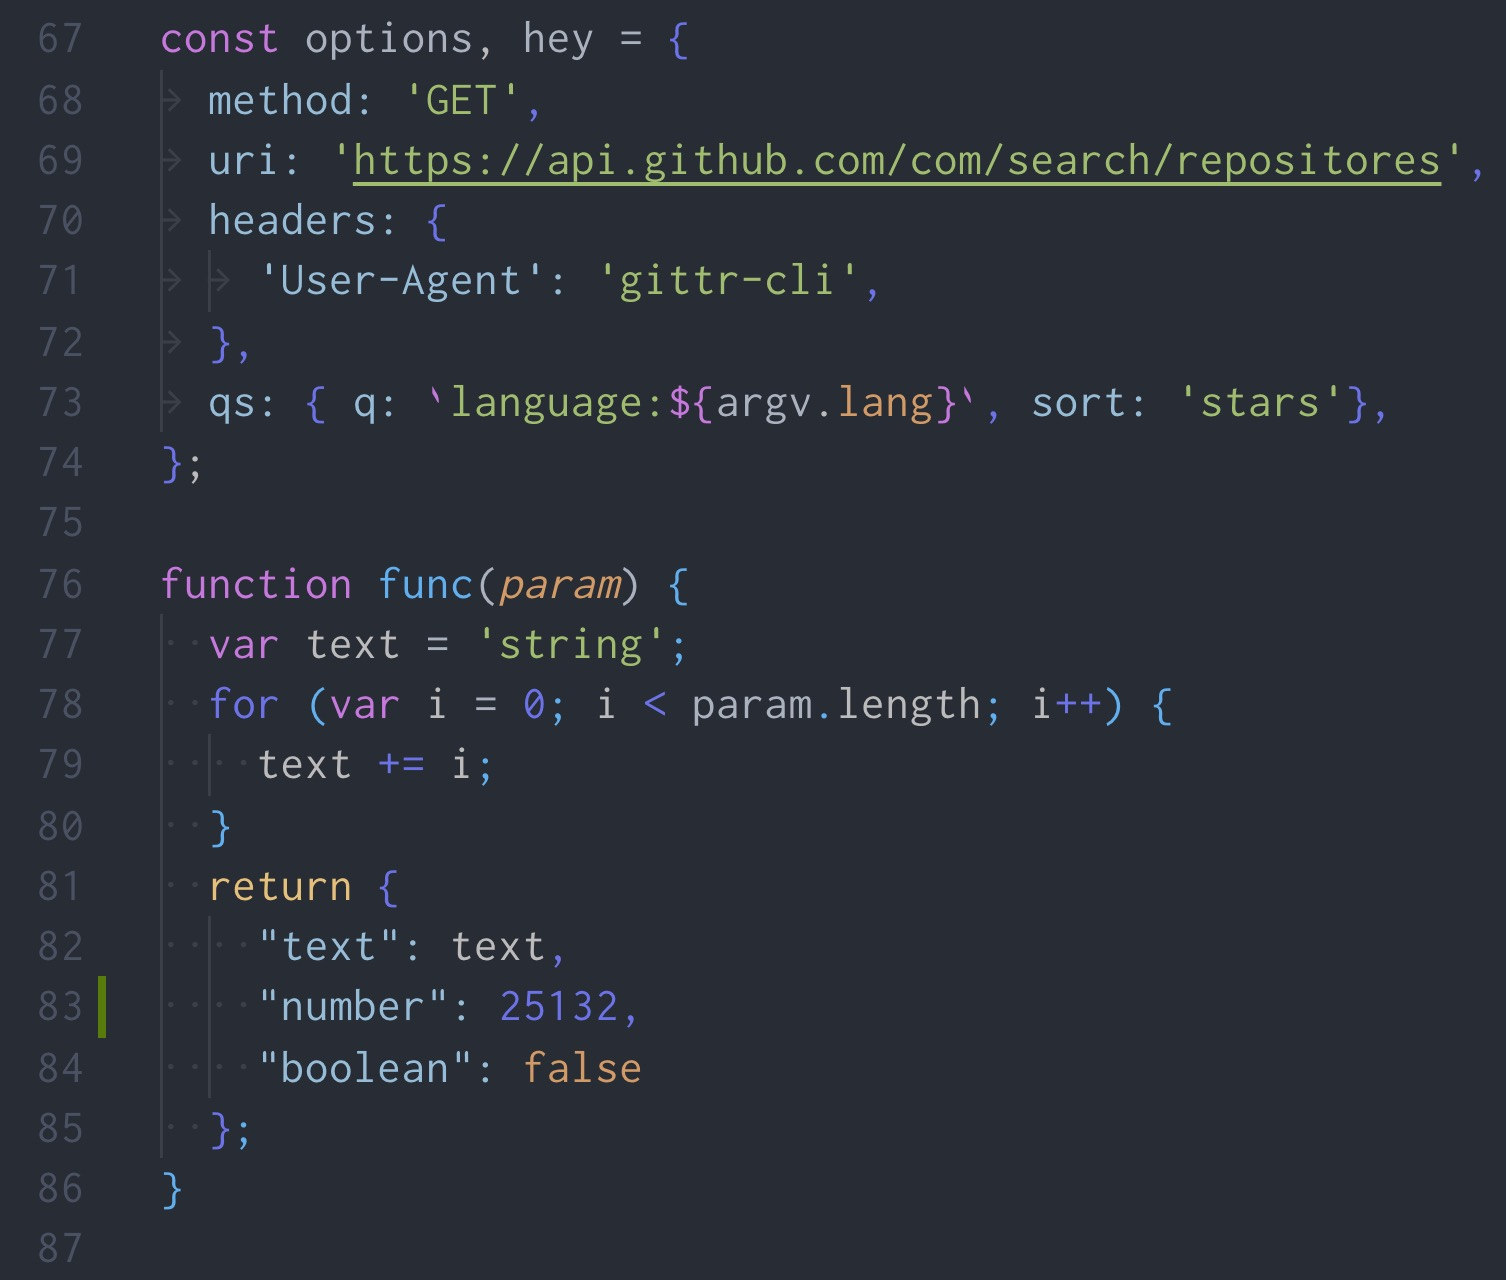
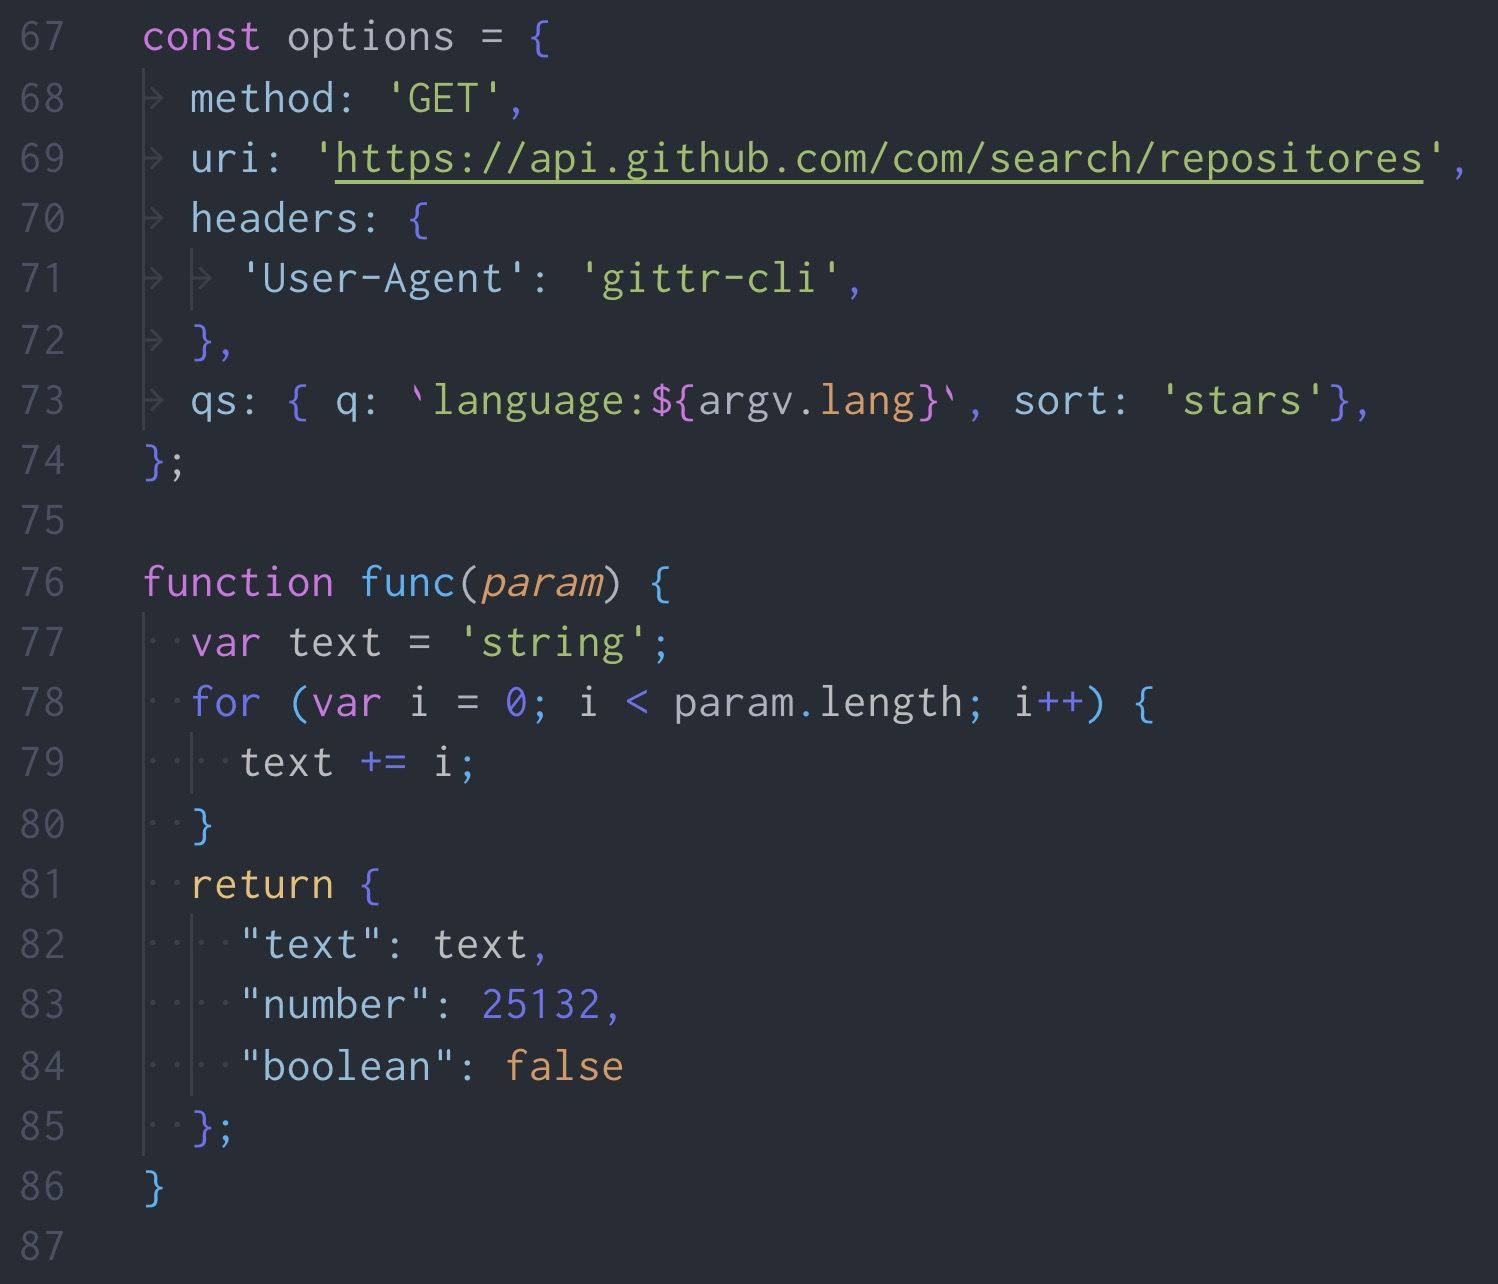
Update sample js code and screenshot

diff --git a/samples/sample.js b/samples/sample.js
@@ -64,7 +64,7 @@ window.requestAnimFrame = (function(){
 })(angular);
 
 
-const options, hey = {
+const options = {
 	method: 'GET',
 	uri: 'https://api.github.com/com/search/repositores',
 	headers: {
